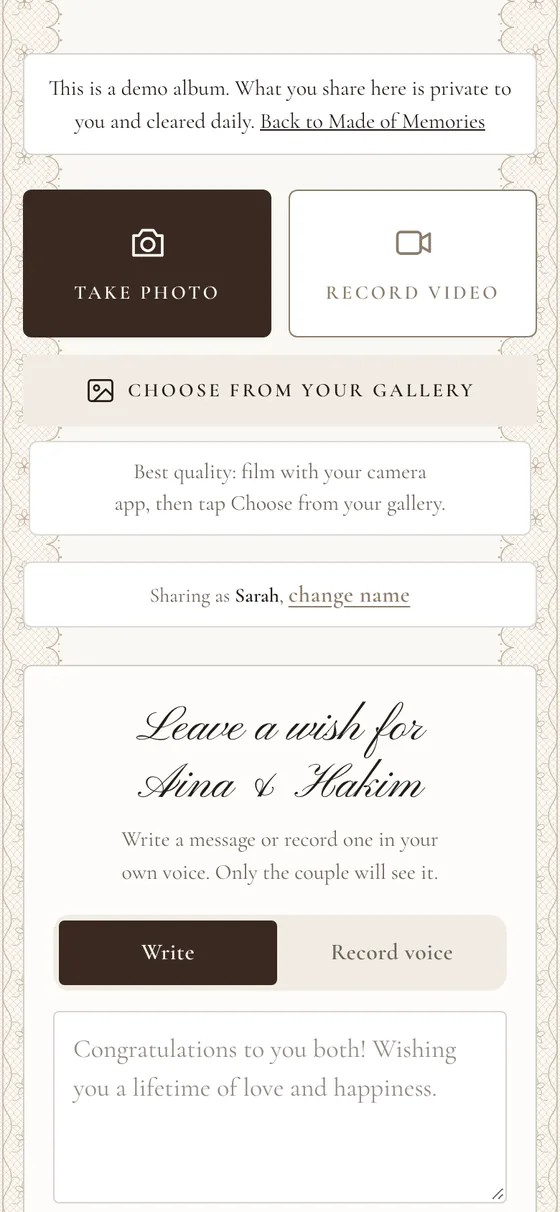
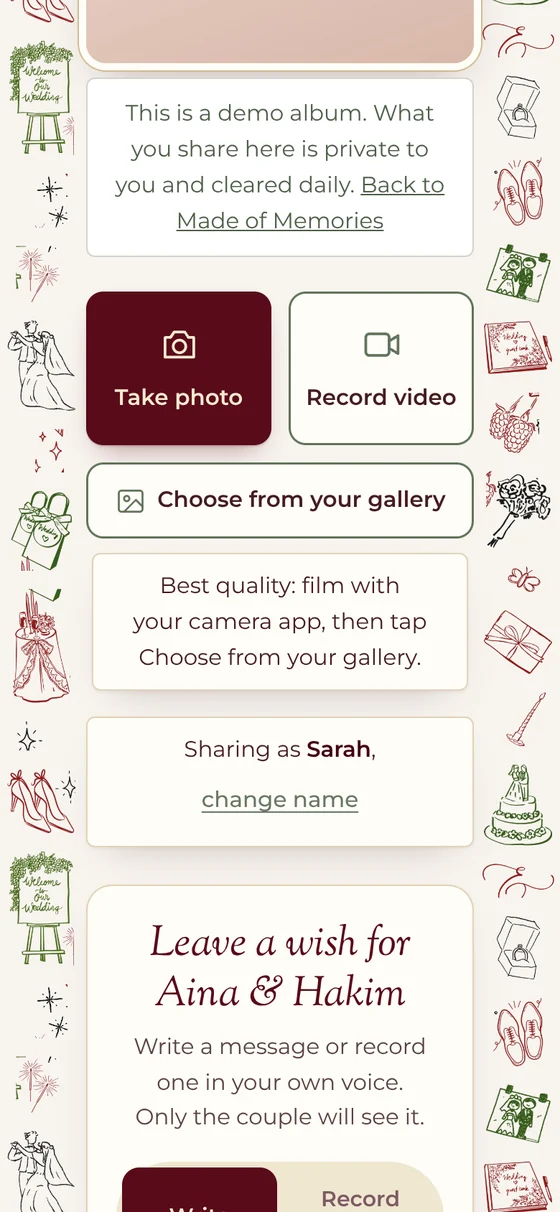
Demo album uses the burgundy doodle look; refresh site screenshots
Claude-Session: https://claude.ai/code/session_01B6pp6DKpHf5yYV3LESvNjY

diff --git a/src/index.js b/src/index.js
@@ -895,7 +895,7 @@ async function setupDemo(request, env, url) {
   const res = await createEvent(new Request(url, {
     method: 'POST',
     headers: { 'Content-Type': 'application/json', 'X-Create-Key': key },
-    body: JSON.stringify({ couple_names: 'Aina & Hakim', event_type: 'sanding', event_date: next.toISOString().slice(0, 10), venue: 'Your wedding venue', theme: 'ivory' }),
+    body: JSON.stringify({ couple_names: 'Aina & Hakim', event_type: 'sanding', event_date: next.toISOString().slice(0, 10), venue: 'Your wedding venue', theme: 'ha-florals' }),
   }), env, url);
   const made = await res.json();
   if (!res.ok) return json(made, res.status);
